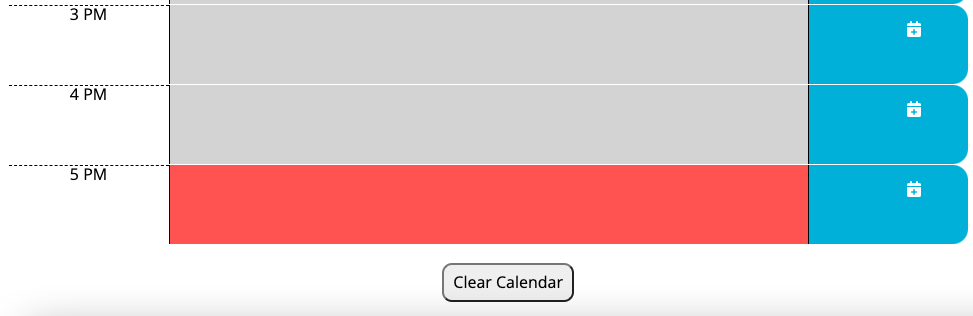
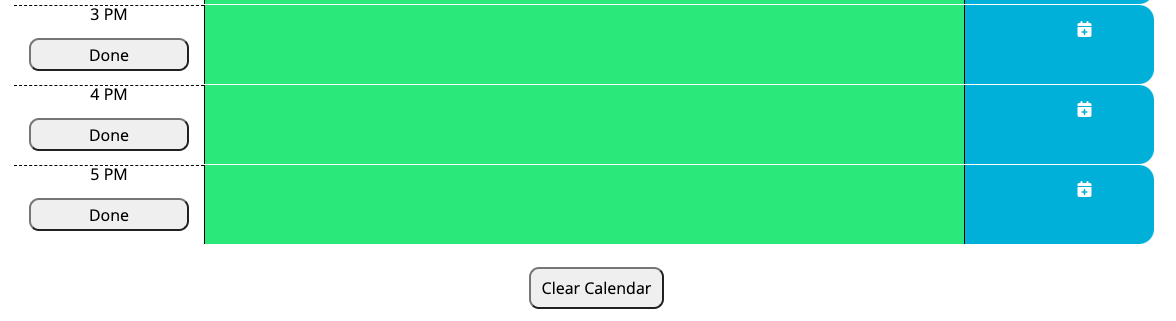
updated screenshots in readme

diff --git a/assets/css/style.css b/assets/css/style.css
@@ -15,7 +15,7 @@ body {
     color: #000000;
     border-left: 1px solid black;
     padding: 10px;
-    width: 50%;
+    width: 100%;
     height: 100%;
     box-sizing: border-box;
     position: absolute;

diff --git a/README.md b/README.md
@@ -40,7 +40,7 @@ When the application is refreshed, all saved events will remain on the calendar.
 
 ![saved events on calendar](./assets/images/load-saved-events.png)
 
-To clear all events from the calendar, click the button on the bottom of the page.
+To clear all events from the calendar, click the button on the bottom of the page. To clear a single event, click on the button on the corresponding row.
 
 ![button to clear events from calendar](./assets/images/clear-calendar.png)
 
